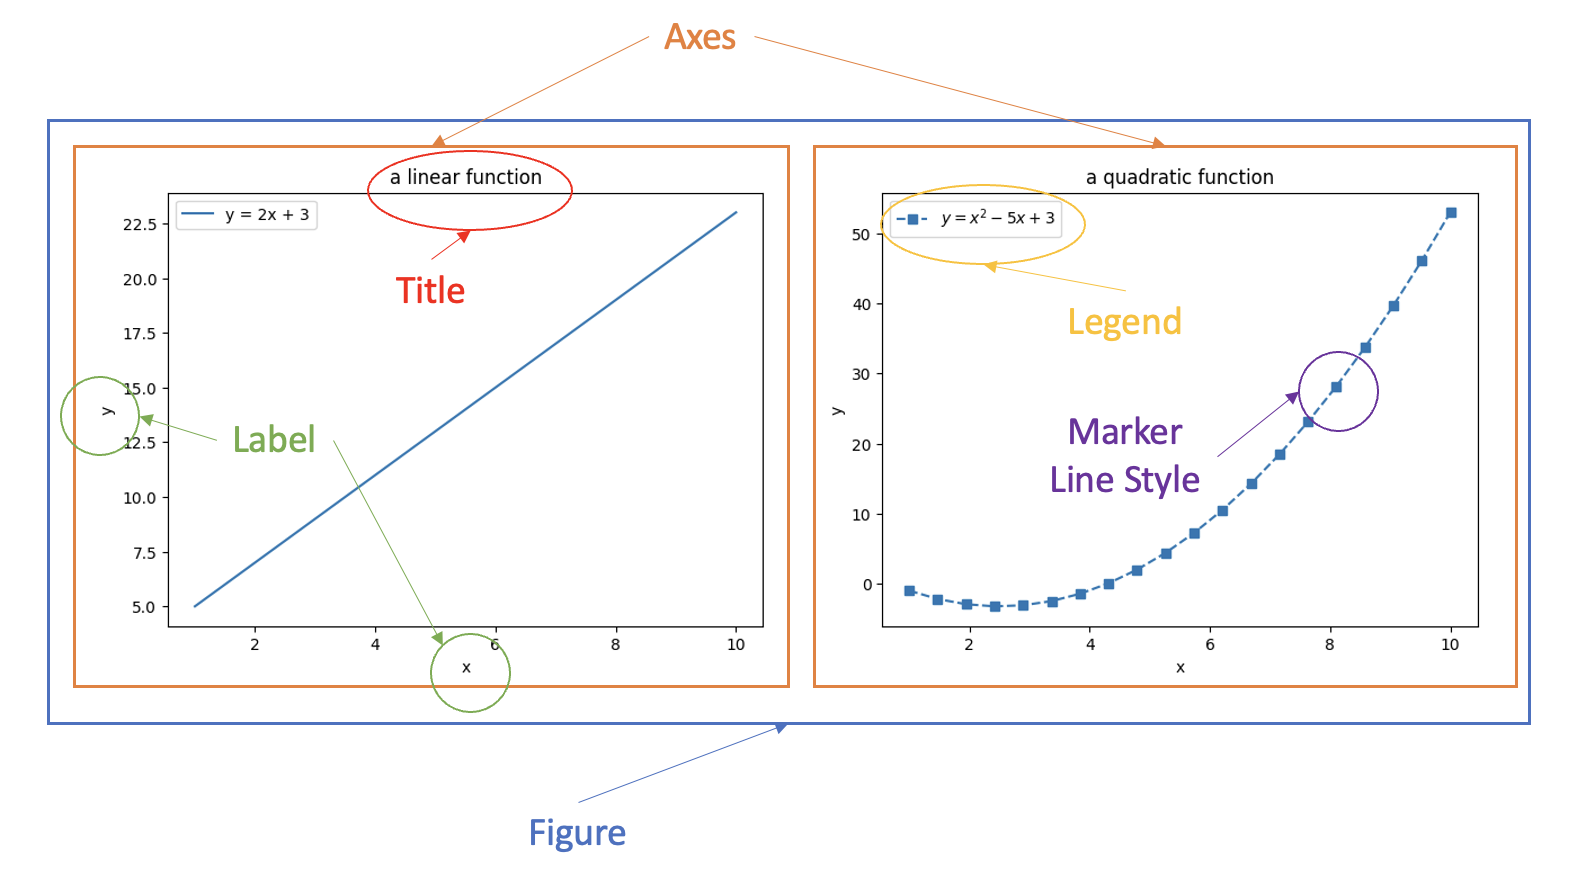
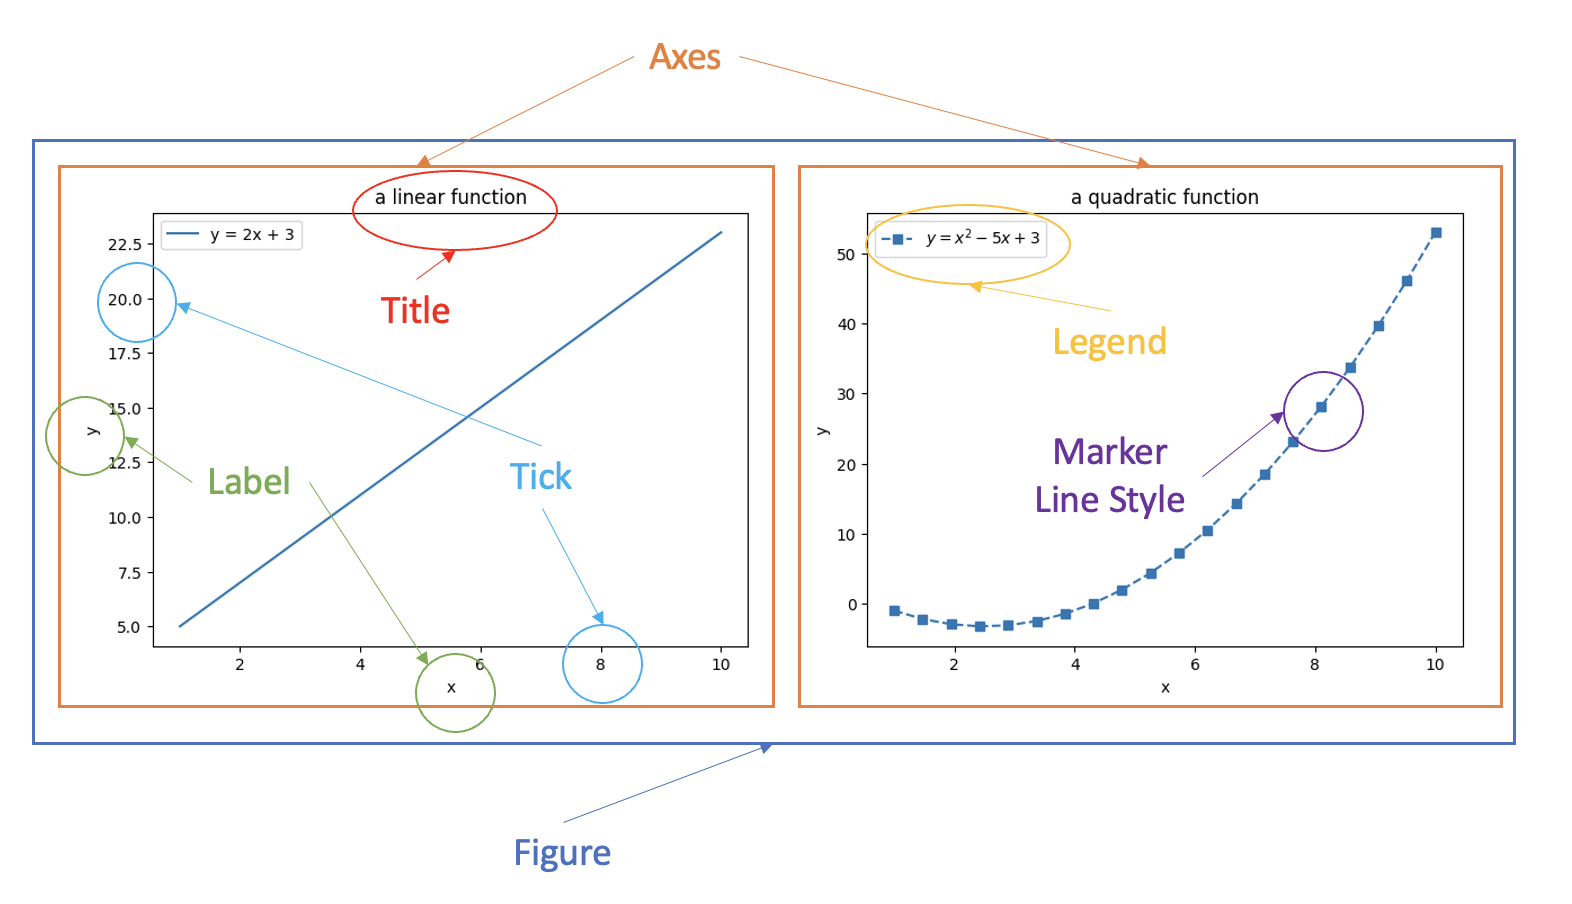
updated matplotlib

diff --git a/_posts/2022-02-10-data-science-cheatsheet.md b/_posts/2022-02-10-data-science-cheatsheet.md
@@ -408,10 +408,10 @@ df[['country','gdp']]
 9          Canada   1.71
 ```
 
-### Selecting data in DataFrames using `.loc` and `.iloc`
+### Selecting data in DataFrames using `.loc[]` and `.iloc[]`
 
 `[]` can only do simple data selections by rows and columns.  More complicated data selection can be done by using the following methods:
-- [`.iloc`](https://pandas.pydata.org/pandas-docs/stable/user_guide/indexing.html#selection-by-position) is primarily integer position based (from 0 to length-1 of the axis)
+- [`.iloc[]`](https://pandas.pydata.org/pandas-docs/stable/user_guide/indexing.html#selection-by-position) is primarily integer position based (from 0 to length-1 of the axis)
 
 ```python
 # select rows with index 1, 4, and 6
@@ -427,7 +427,7 @@ df.iloc[1:4, :2]
 3  Germany   4.00
 ```
 
-- [`.loc`](https://pandas.pydata.org/pandas-docs/stable/user_guide/indexing.html#selection-by-label) is primarily label based - **NOTE**: even numbers are treated as labels!
+- [`.loc[]`](https://pandas.pydata.org/pandas-docs/stable/user_guide/indexing.html#selection-by-label) is primarily label based - **NOTE**: even numbers are treated as labels!
 
 ```python
 # here 1 adn 4 are treated as labels
@@ -440,6 +440,8 @@ df.loc[1:4, ['country', 'gdp']]
 3         Germany   4.00
 4  United Kingdom   2.83
 ```
+
+[Back to Top](#title)
 
 ### Filtering Rows using Masking Expressions
 
@@ -493,6 +495,8 @@ df
 8          Brazil   1.87      212.56  8.52         Brasilia     8797.515995
 9          Canada   1.71       37.74  9.98           Ottawa    45310.015898
 ```
+
+[Back to Top](#title)
 
 ### Pandas Functions
 
@@ -550,6 +554,54 @@ capital           10
 continent          4
 dtype: int64
 ```
+
+[Back to Top](#title)
+
+### Sorting
+
+[`.sort_values()`](https://pandas.pydata.org/docs/reference/api/pandas.DataFrame.sort_values.html) can be used to sort the values, which returns a sorted DataFrame with original DataFrame unchanged. 
+
+- use `by='column name'` or `by=['column 1', column 2']` to specify columns to sort
+- use `ascending=False` to change ascending vs. descending
+- use `ignore_index=True` to label the result with index: 0, 1, …, n - 1.
+- use `inplace=True` to make the change to the DataFrame in place
+
+```
+# after the following line the df is NOT changed
+# the index is NOT reset 
+df.sort_values(by='population', ascending=False)
+
+          country    gdp  population  area          capital      continent
+1           China  13.40     1439.32  9.60          Beijing           Asia
+6           India   2.72     1380.00  3.29        New Delhi           Asia
+0   United States  20.49      331.00  9.53  WASHINGTON D.C.  North America
+8          Brazil   1.87      212.56  8.52         Brasilia  South America
+2           Japan   4.97      126.48  0.38            Tokyo           Asia
+3         Germany   4.00       83.78  0.36           Berlin         Europe
+4  United Kingdom   2.83       67.89  0.24           London         Europe
+5          France   2.78       65.27  0.64            Paris         Europe
+7           Italy   2.07       60.46  0.30             Rome         Europe
+9          Canada   1.71       37.74  9.98           Ottawa  North America
+```
+
+```
+df1 = df.sort_values(by='population', ascending=False, ignore_index=True)
+df1  # the index is reset 
+
+          country    gdp  population  area          capital      continent
+0           China  13.40     1439.32  9.60          Beijing           Asia
+1           India   2.72     1380.00  3.29        New Delhi           Asia
+2   United States  20.49      331.00  9.53  WASHINGTON D.C.  North America
+3          Brazil   1.87      212.56  8.52         Brasilia  South America
+4           Japan   4.97      126.48  0.38            Tokyo           Asia
+5         Germany   4.00       83.78  0.36           Berlin         Europe
+6  United Kingdom   2.83       67.89  0.24           London         Europe
+7          France   2.78       65.27  0.64            Paris         Europe
+8           Italy   2.07       60.46  0.30             Rome         Europe
+9          Canada   1.71       37.74  9.98           Ottawa  North America
+```
+
+[Back to Top](#title)
 
 ### GroupBy
 
@@ -639,7 +691,6 @@ South America
 ------------------------------------------------------------
 ```
 
-
 [Back to Top](#title)
 
 ## Matplotlib
@@ -654,7 +705,7 @@ The following picture shows the [basic Matplotlib concepts](https://matplotlib.o
 
 - Figure: the top level container for all the plot elements, which may contain 1 or more Axes.
 - Axes: an area where points can be specified in terms of x-y coordinates
-- Axis, Title, Label, Marker, Legend are self-explanatory
+- Axis, Title, Label, Tick, Marker, Legend are self-explanatory
 
 `matplotlib.pyplot` is a collection of functions that make matplotlib work like [MATLAB](https://www.mathworks.com/products/matlab.html).
 ```
@@ -681,9 +732,9 @@ In the next example, I illustrate the followings:
 - use different [line styles](https://matplotlib.org/3.5.1/gallery/lines_bars_and_markers/linestyles.html)
 - use different [marker styles](https://matplotlib.org/3.5.1/gallery/lines_bars_and_markers/marker_reference.html)
 - specify [colors](https://matplotlib.org/stable/tutorials/colors/colors.html)
+- set [ticks and tick lables](https://matplotlib.org/stable/api/_as_gen/matplotlib.axes.Axes.set_xticks.html#matplotlib.axes.Axes.set_xticks): by default the tick and tick labels are automatically generated. `ax.set_xticks()` and `ax.set_yticks()` can be used to customize the ticks and tick labels. For example, `ax.set_xticks([1, 3, 7, 8], ['a', 'b', 'c', 'd'])` set 4 ticks with corresponding labels for the x-axis.
 - set plot title
 - set axis labels
-
 
 ```python
 import numpy as np
@@ -707,11 +758,13 @@ ax.plot(x,
 ax.set_title('Two Functions')  # plot title
 ax.set_xlabel('x')  # x label
 ax.set_ylabel('y')  # y label
+# ax.set_xticks([1, 3, 7, 8], ['a', 'b', 'c', 'd'])  # change the x ticks and labels
 ax.legend()  # show legend
 ```
 
-
 <img width="400" class="mx-auto" src="https://user-images.githubusercontent.com/595772/156435519-81e1437e-3ca9-4dc0-8f02-a0de3eecad21.png">
+
+[Back to Top](#title)
 
 ### Multiple Axes
 
@@ -745,6 +798,104 @@ ax[1, 2].plot(x, y2)
 
 <img width="400" class="mx-auto" src="https://user-images.githubusercontent.com/595772/156458730-7b4ba38e-b9f5-4203-ab8c-b1d41819f338.png">
 
+[Back to Top](#title)
+
+### Pandas Charting
+
+[Pandas charting](https://pandas.pydata.org/docs/user_guide/visualization.html) is built on top of Matplotlib. 
+
+I will use Country GDP dataset ([countries-2021.csv.zip](https://github.com/harrywang/harrywang.github.io/files/8162154/countries-2021.csv.zip)) and California housing dataset ([housing.csv.zip](https://github.com/harrywang/harrywang.github.io/files/8180224/housing.csv.zip)) to illustrate the charts. You can learn more about the dataset from [my Kaggle dataset page](https://www.kaggle.com/harrywang/housing).
+
+#### Line Plot
+
+[`.plot()`](https://pandas.pydata.org/docs/reference/api/pandas.DataFrame.plot.line.html) (same as `.plot.line()`) is used to create line plots for all numerical columns with x-axis being the number of rows
+
+```python
+import pandas as pd
+df_country = pd.read_csv('countries-2021.csv')
+df_country.plot()
+```
+
+<img width="400" class="mx-auto" src="https://user-images.githubusercontent.com/595772/156588884-6c074b34-5cf4-4311-aea2-472bb5d2cc58.png">
+
+Change the style sheet and only plot one column (country area) with custom ticks:
+
+```python
+import matplotlib.pyplot as plt
+plt.style.use('seaborn')
+
+df_country.area.plot().set_xticks(df_country.index, df_country.country, rotation=60)
+```
+
+<img width="400" class="mx-auto" src="https://user-images.githubusercontent.com/595772/156608087-47ecc57e-9e49-4597-ac11-5f8c32335fca.png">
+
+Create a new sorted DataFrame and plot the area with tick labels:
+
+```python
+df_sorted_area = df_country.sort_values(by='area', ignore_index=True)
+df_sorted_area.area.plot().set_xticks(df_sorted_area.index, df_sorted_area.country, rotation=60)
+```
+
+<img width="400" class="mx-auto" src="https://user-images.githubusercontent.com/595772/156607909-9c4fc734-e9d7-498a-bb42-aa93a5d7f431.png">
+
+Read the California housing dataset:
+
+```
+import pandas as pd
+df_housing = pd.read_csv('housing.csv')
+df_housing.info()
+
+RangeIndex: 20640 entries, 0 to 20639
+Data columns (total 10 columns):
+ #   Column              Non-Null Count  Dtype  
+---  ------              --------------  -----  
+ 0   longitude           20640 non-null  float64
+ 1   latitude            20640 non-null  float64
+ 2   housing_median_age  20640 non-null  float64
+ 3   total_rooms         20640 non-null  float64
+ 4   total_bedrooms      20433 non-null  float64
+ 5   population          20640 non-null  float64
+ 6   households          20640 non-null  float64
+ 7   median_income       20640 non-null  float64
+ 8   median_house_value  20640 non-null  float64
+ 9   ocean_proximity     20640 non-null  object 
+dtypes: float64(9), object(1)
+```
+
+Create a line plot for the median house price - think about what patterns you can see from this line chart?
+
+```
+df_housing.median_house_value.plot()
+```
+
+<img width="400" class="mx-auto" src="https://user-images.githubusercontent.com/595772/156633243-ea43863b-c257-41a0-bde6-1735e00d1eab.png">
+
+
+#### Histogram
+
+
+[`.hist()`](https://pandas.pydata.org/docs/reference/api/pandas.DataFrame.hist.html) (same as `.plot.hist()`) is often used to create histograms to check the followings:
+
+- The distributions of the data
+- center and spread of the data
+- skewness of the data
+- presence of outliers
+
+`bins=50` can be used to change the number of bins, default is 10
+
+```
+# numerical data
+df_housing.median_income.hist(bins=50)
+```
+
+<img width="400" class="mx-auto" src="https://user-images.githubusercontent.com/595772/156634756-e0845400-478c-4516-b4c0-f031d850e811.png">
+
+```
+# categorical data
+df_country.continent.hist()
+```
+
+<img width="400" class="mx-auto" src="https://user-images.githubusercontent.com/595772/156636098-361b3ad5-5be0-45ed-8c76-ff8b8cca1398.png">
 
 [Back to Top](#title)
 

diff --git a/_posts/2022-02-22-get-eth.md b/_posts/2022-02-22-get-eth.md
@@ -213,8 +213,8 @@ $ crontab -l
 
 You should get an email every minute as a test. 
 
-Finally, you can change the task to run at minute 5 past every 24th hour:
+Finally, you can change the task to run at minute 30 past every 24th hour (given the random pauses, add 30 minutes to make sure full 24 hours has passed since previous run):
 
-`5 */24 * * * /usr/bin/python3 /home/ubuntu/send-me-eth/send-me-eth.py`
+`30 */24 * * * /usr/bin/python3 /home/ubuntu/send-me-eth/send-me-eth.py`
 
 Now, you can close the terminal and automatically get 0.1 ether (or more if multiple addresses are used) every day :). Make sure to delete the cron task when you get enough test ethers.
